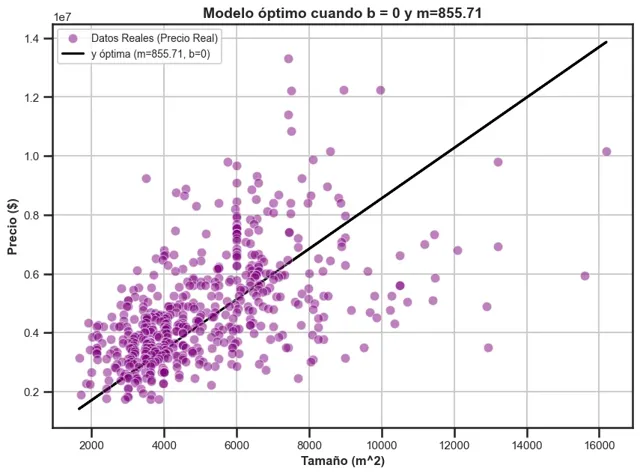
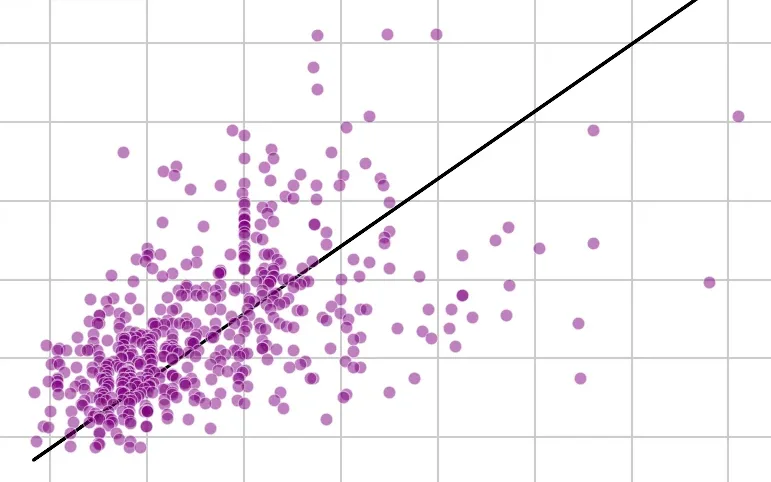
Mejorar el encuadre de la miniatura del proyecto de regresión
- Recorte limpio del área de la gráfica (sin título, ejes ni leyenda)
- Todas las tarjetas con el mismo encuadre 16:10 para que nada se corte

Claude-Session: https://claude.ai/code/session_012U6k4XdkVDdzy1sacsbGQ1

diff --git a/index.html b/index.html
@@ -16,9 +16,9 @@
     <link rel="preconnect" href="https://fonts.gstatic.com" crossorigin>
     <link rel="stylesheet" href="https://fonts.googleapis.com/css2?family=Inter:wght@400;500;700;800&family=JetBrains+Mono:wght@400;600&display=swap">
     <link rel="stylesheet" href="https://cdnjs.cloudflare.com/ajax/libs/font-awesome/6.6.0/css/all.min.css" integrity="sha512-Kc323vGBEqzTmouAECnVceyQqyqdsSiqLQISBL29aUW4U/M7pSPA/gEUZQqv1cwx4OnYxTxve5UMg5GT6L4JJg==" crossorigin="anonymous" referrerpolicy="no-referrer" />
-    <link rel="stylesheet" href="css/styles.css?v=4">
+    <link rel="stylesheet" href="css/styles.css?v=6">
     <link rel="icon" href="imgs/logo-96.png" type="image/png">
-    <script src="js/main.js?v=4" defer></script>
+    <script src="js/main.js?v=6" defer></script>
 </head>
 
 <body>
@@ -122,7 +122,7 @@
             <div class="tarjetas">
                 <article class="tarjeta">
                     <a class="tarjeta-grafico tarjeta-imagen" href="subpages/regresion-lineal.html" tabindex="-1" aria-hidden="true">
-                        <img src="imgs/proyectos/regresion/miniatura.webp" alt="" width="640" height="474" loading="lazy">
+                        <img src="imgs/proyectos/regresion/miniatura.webp" alt="" width="771" height="482" loading="lazy">
                     </a>
                     <div class="tarjeta-cuerpo">
                         <span class="insignia real">Notebook</span>

diff --git a/subpages/regresion-lineal.html b/subpages/regresion-lineal.html
@@ -15,9 +15,9 @@
     <link rel="preconnect" href="https://fonts.gstatic.com" crossorigin>
     <link rel="stylesheet" href="https://fonts.googleapis.com/css2?family=Inter:wght@400;500;700;800&family=JetBrains+Mono:wght@400;600&display=swap">
     <link rel="stylesheet" href="https://cdnjs.cloudflare.com/ajax/libs/font-awesome/6.6.0/css/all.min.css" integrity="sha512-Kc323vGBEqzTmouAECnVceyQqyqdsSiqLQISBL29aUW4U/M7pSPA/gEUZQqv1cwx4OnYxTxve5UMg5GT6L4JJg==" crossorigin="anonymous" referrerpolicy="no-referrer" />
-    <link rel="stylesheet" href="../css/styles.css?v=4">
+    <link rel="stylesheet" href="../css/styles.css?v=6">
     <link rel="icon" href="../imgs/logo-96.png" type="image/png">
-    <script src="../js/main.js?v=4" defer></script>
+    <script src="../js/main.js?v=6" defer></script>
 </head>
 <body>
     <a class="saltar" href="#contenido">Saltar al contenido</a>

diff --git a/subpages/sobre-mi.html b/subpages/sobre-mi.html
@@ -15,9 +15,9 @@
     <link rel="preconnect" href="https://fonts.gstatic.com" crossorigin>
     <link rel="stylesheet" href="https://fonts.googleapis.com/css2?family=Inter:wght@400;500;700;800&family=JetBrains+Mono:wght@400;600&display=swap">
     <link rel="stylesheet" href="https://cdnjs.cloudflare.com/ajax/libs/font-awesome/6.6.0/css/all.min.css" integrity="sha512-Kc323vGBEqzTmouAECnVceyQqyqdsSiqLQISBL29aUW4U/M7pSPA/gEUZQqv1cwx4OnYxTxve5UMg5GT6L4JJg==" crossorigin="anonymous" referrerpolicy="no-referrer" />
-    <link rel="stylesheet" href="../css/styles.css?v=4">
+    <link rel="stylesheet" href="../css/styles.css?v=6">
     <link rel="icon" href="../imgs/logo-96.png" type="image/png">
-    <script src="../js/main.js?v=4" defer></script>
+    <script src="../js/main.js?v=6" defer></script>
 </head>
 <body>
     <a class="saltar" href="#contenido">Saltar al contenido</a>

diff --git a/css/styles.css b/css/styles.css
@@ -547,7 +547,9 @@ main {
 }
 
 .tarjeta-grafico {
-    display: block;
+    display: flex;
+    align-items: center;
+    aspect-ratio: 16 / 10;
     padding: 22px 22px 14px;
     background: var(--acento-fondo);
     border-bottom: 1px solid var(--borde);
@@ -555,20 +557,20 @@ main {
 
 .tarjeta-grafico svg {
     width: 100%;
-    height: 110px;
+    height: 100%;
 }
 
 /* Miniatura con una gráfica real (fondo blanco en ambos temas) */
 .tarjeta-imagen {
     padding: 0;
     background: #FFFFFF;
+    overflow: hidden;
 }
 
 .tarjeta-imagen img {
     width: 100%;
-    height: 146px; /* mismo alto que los gráficos SVG de las otras tarjetas */
+    height: 100%;
     object-fit: cover;
-    object-position: center 40%;
     transition: transform 0.4s ease;
 }
 
